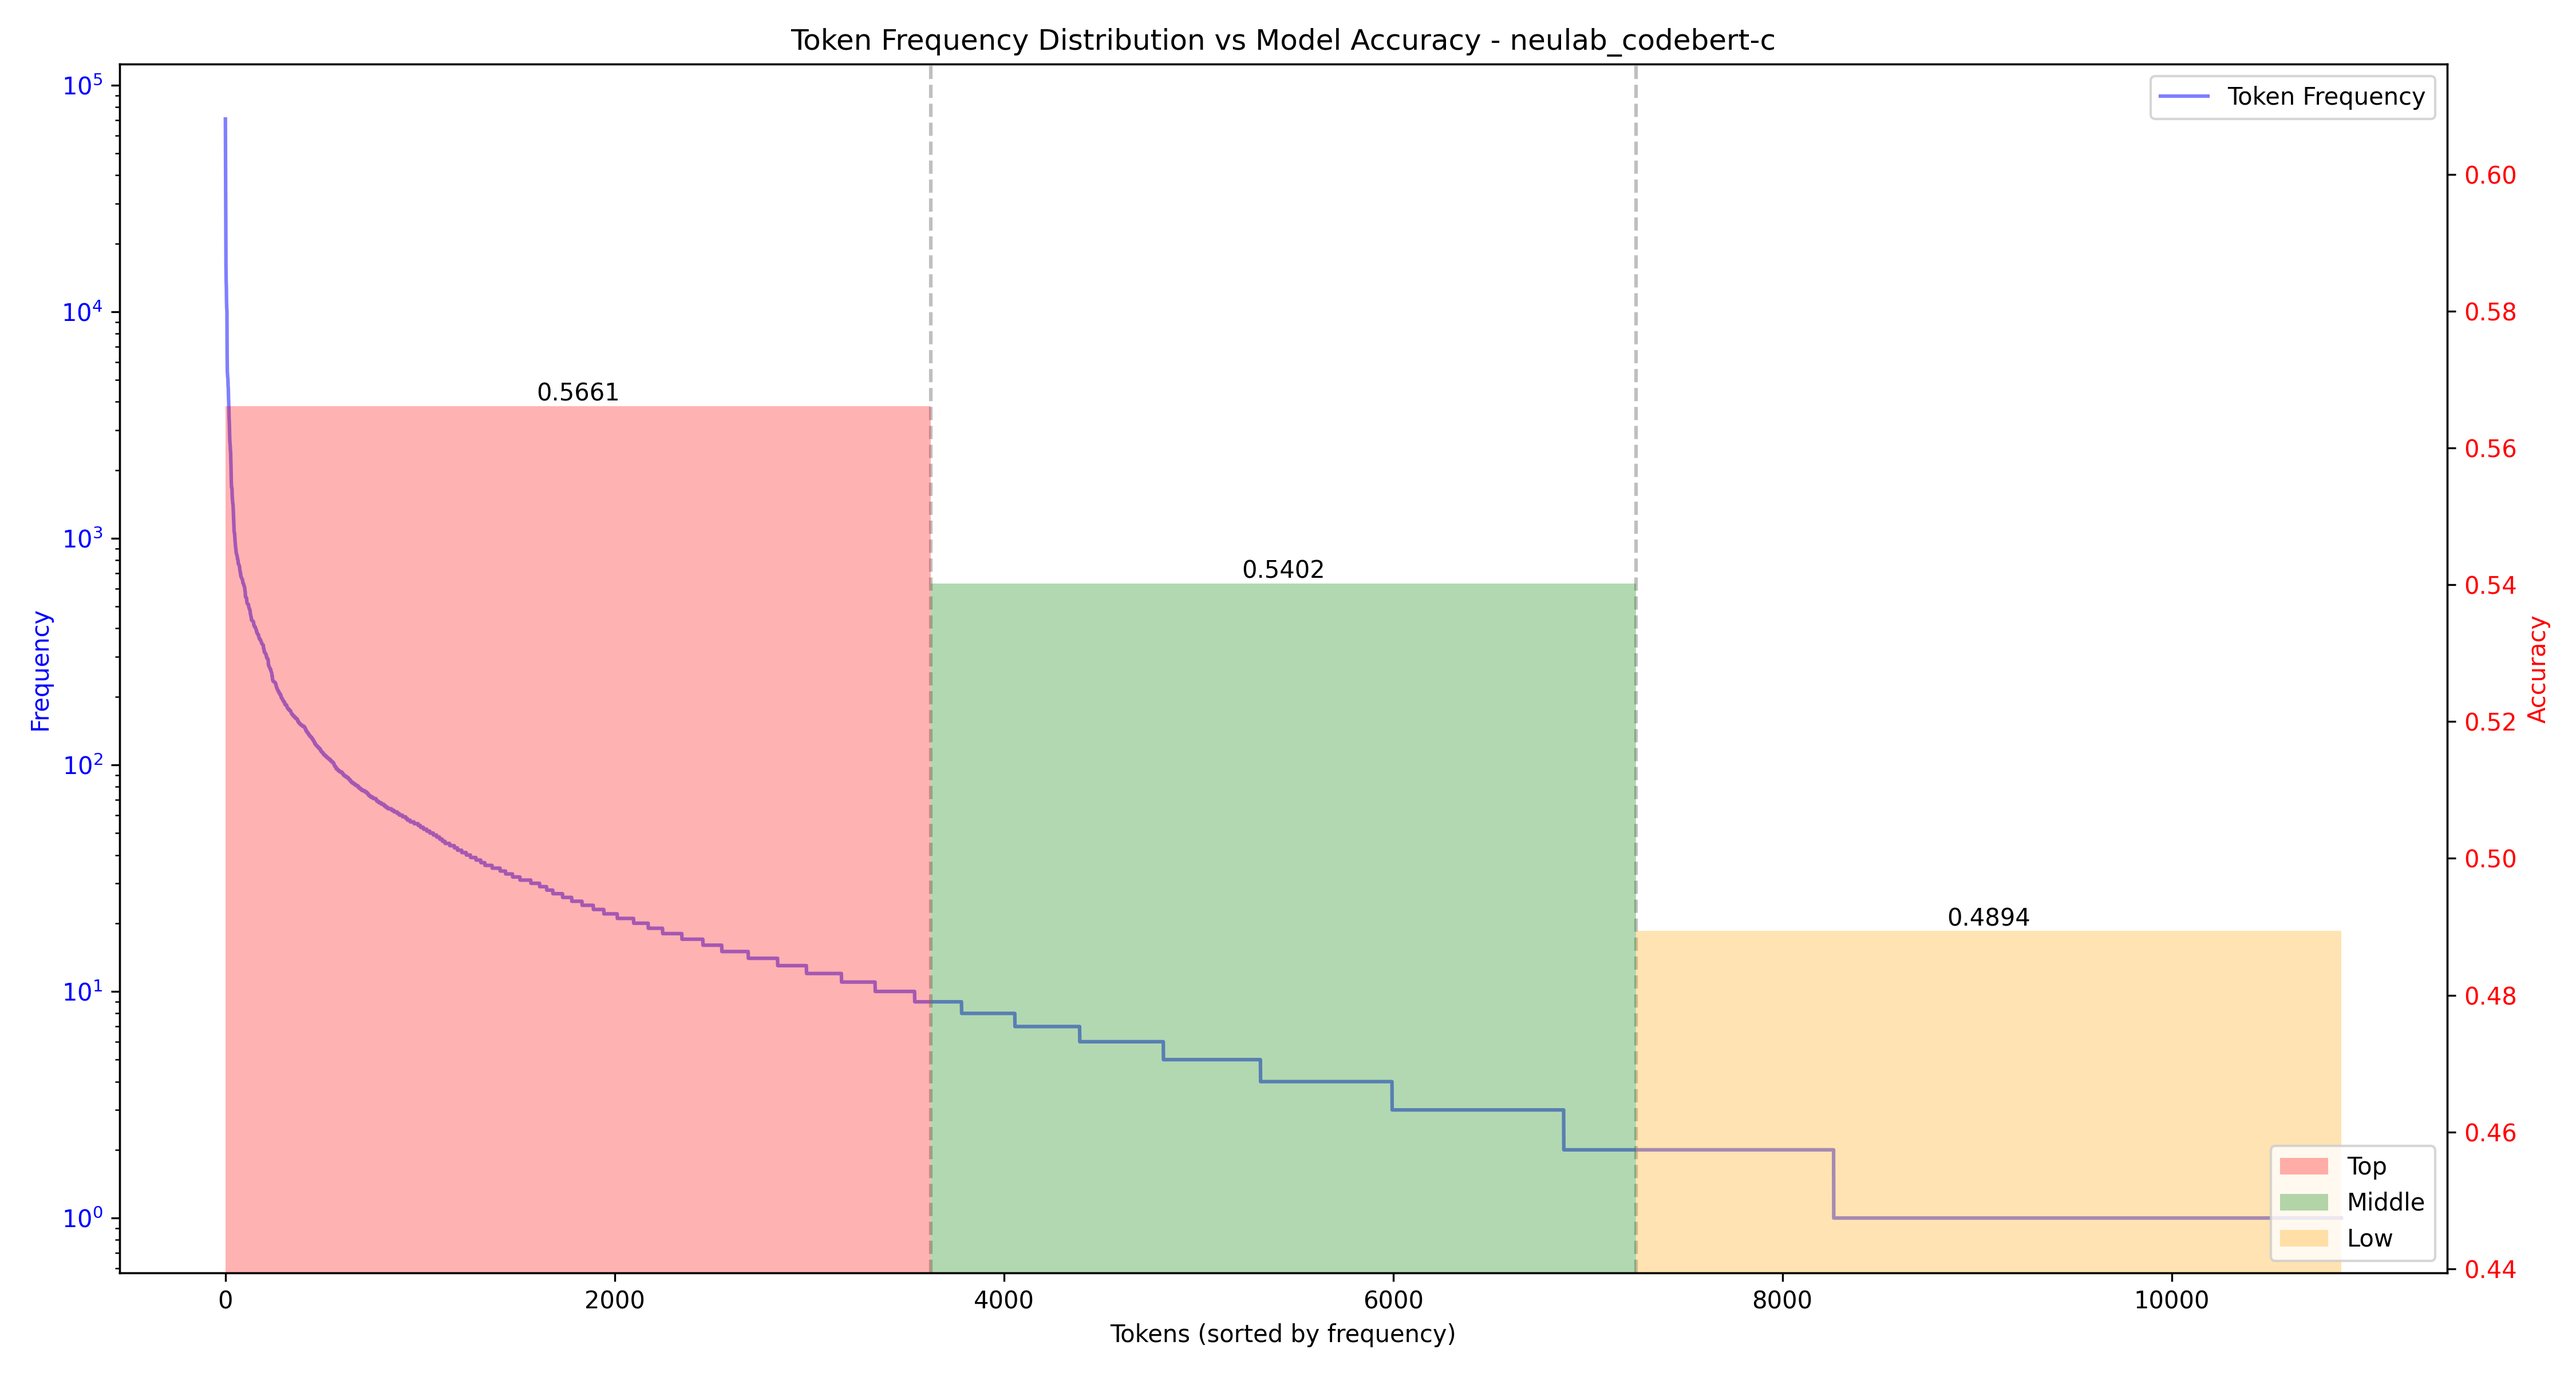
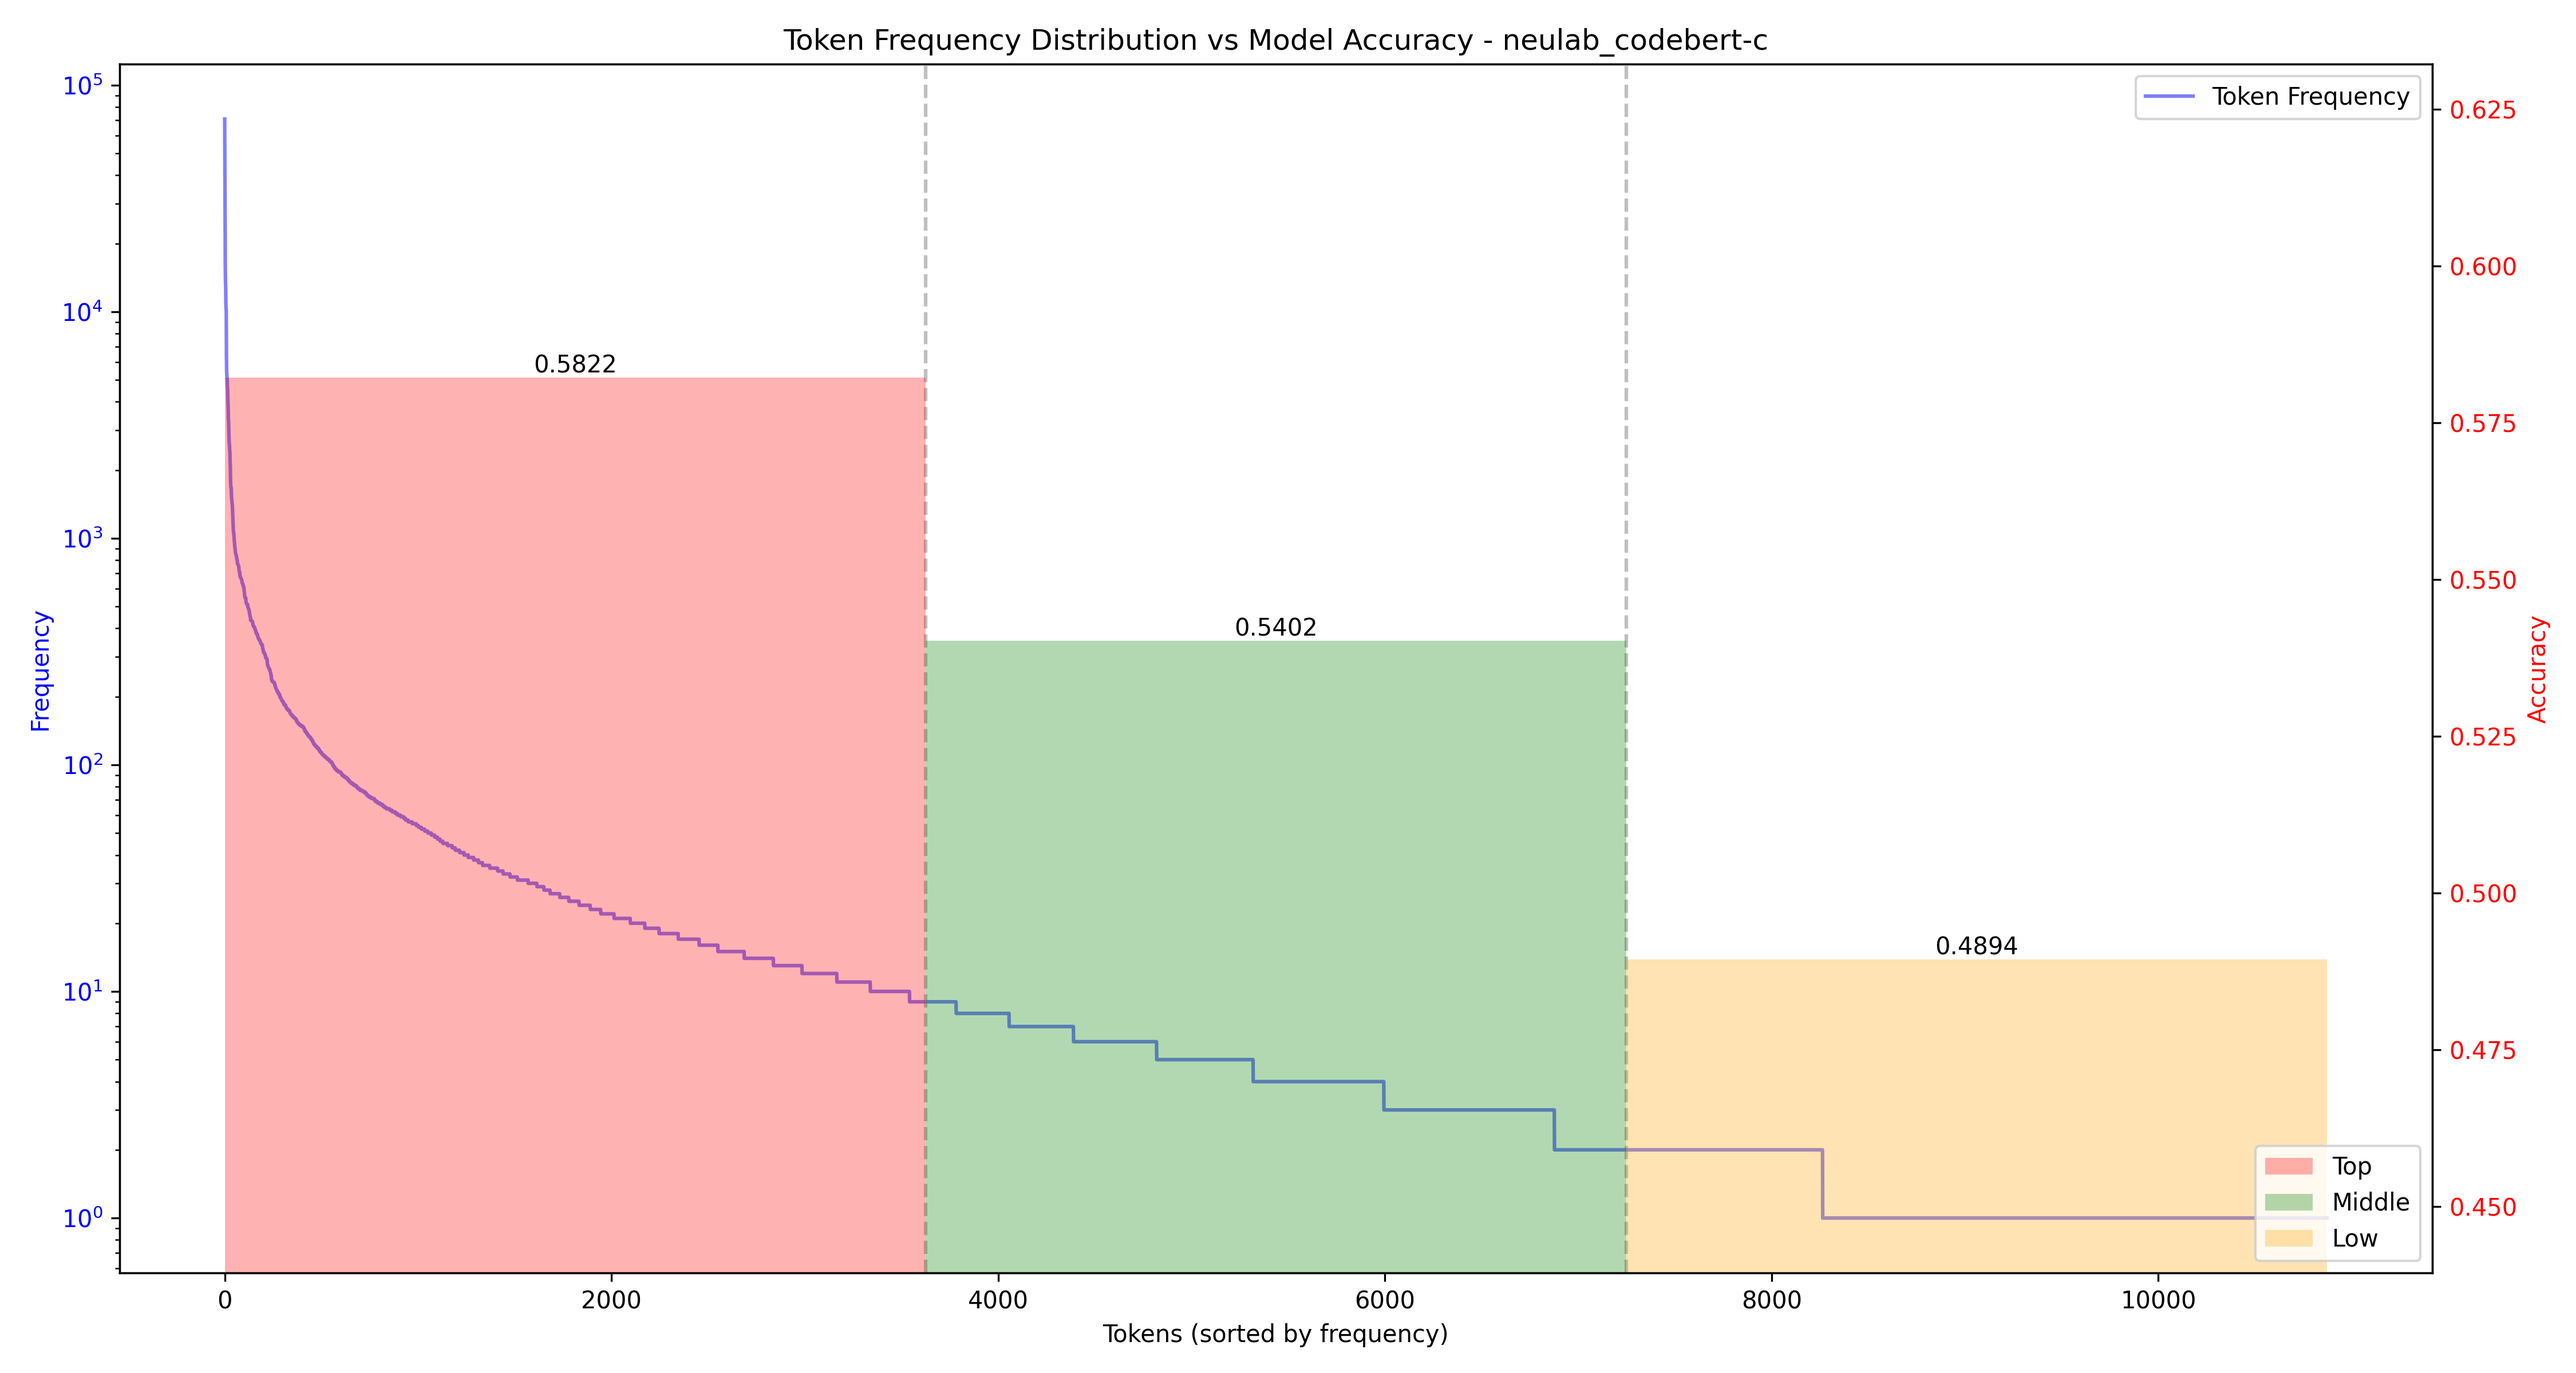
save input_toekn_len vs acc with even x-axis point

diff --git a/Music/pre_processing/input_token_len_frequency/even_len_acc_graph.py b/Music/pre_processing/input_token_len_frequency/even_len_acc_graph.py
@@ -57,7 +57,7 @@ def generate_and_save_plot(model_name, token_range_data, model_performance_data,
     ax1.set_xlim(0, 576)  # Extend a bit beyond 512 to show the last bar fully
 
     # Save the plot as PNG in the specified output directory
-    output_path = os.path.join(output_dir, f"{model_replace}_performance.png")
+    output_path = os.path.join(output_dir, f"{model_replace}_performance_even.png")
     plt.savefig(output_path, bbox_inches='tight')
     
     # Close the plot to avoid memory issues during multiple saves
@@ -67,8 +67,6 @@ def generate_and_save_plot(model_name, token_range_data, model_performance_data,
 models = [
     "bert-base-uncased",
     "bert-base-chinese",
-    "bert-base-multilingual-uncased",
-    "bert-base-multilingual-cased",
     "bert-base-german-cased",
     "neuralmind/bert-base-portuguese-cased",
     "tohoku-nlp/bert-base-japanese",
